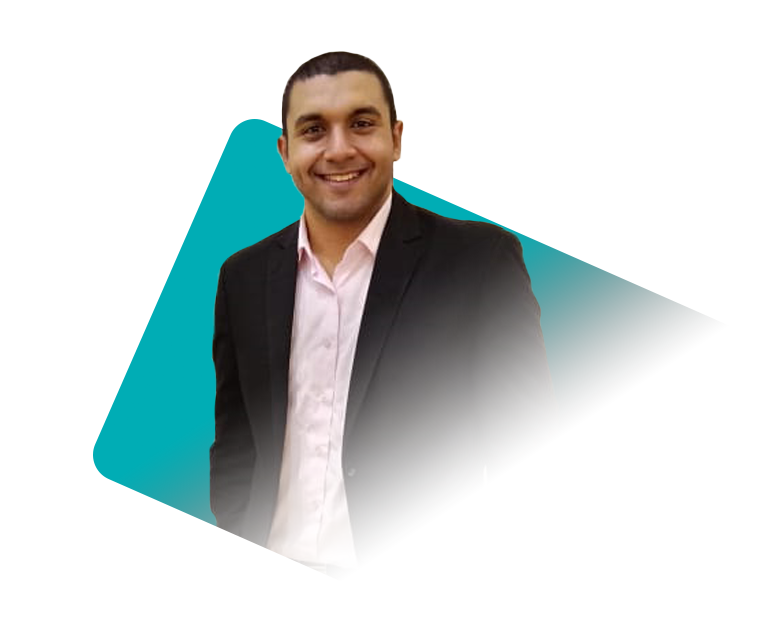
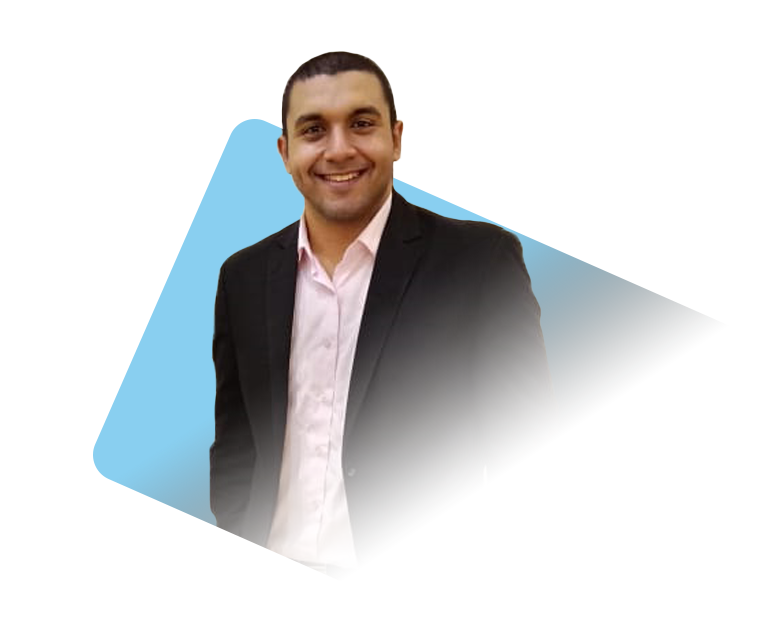
UI changes

Changed region(s): [[0.1231, 0.1787, 0.4, 0.8339], [0.6462, 0.3574, 0.8, 0.5361], [0.4923, 0.268, 0.6462, 0.3574]]

diff --git a/app/globals.css b/app/globals.css
@@ -13,7 +13,7 @@
     /* --navbar: #00ADB5;
     --navbar-foreground: #EEEEEE; */
 
-    --primary: #00ADB5;
+    --primary: #89cff0;
     --primary-foreground: #EEEEEE;
 
     --secondary: #393E46;
@@ -43,7 +43,7 @@
     --navbar: #99c4ff;
     --navbar-foreground: #001839; */
 
-    --primary: #00ADB5;
+    --primary: #89cff0;
     --primary-foreground: #EEEEEE;
 
     --secondary: #EEEEEE;
